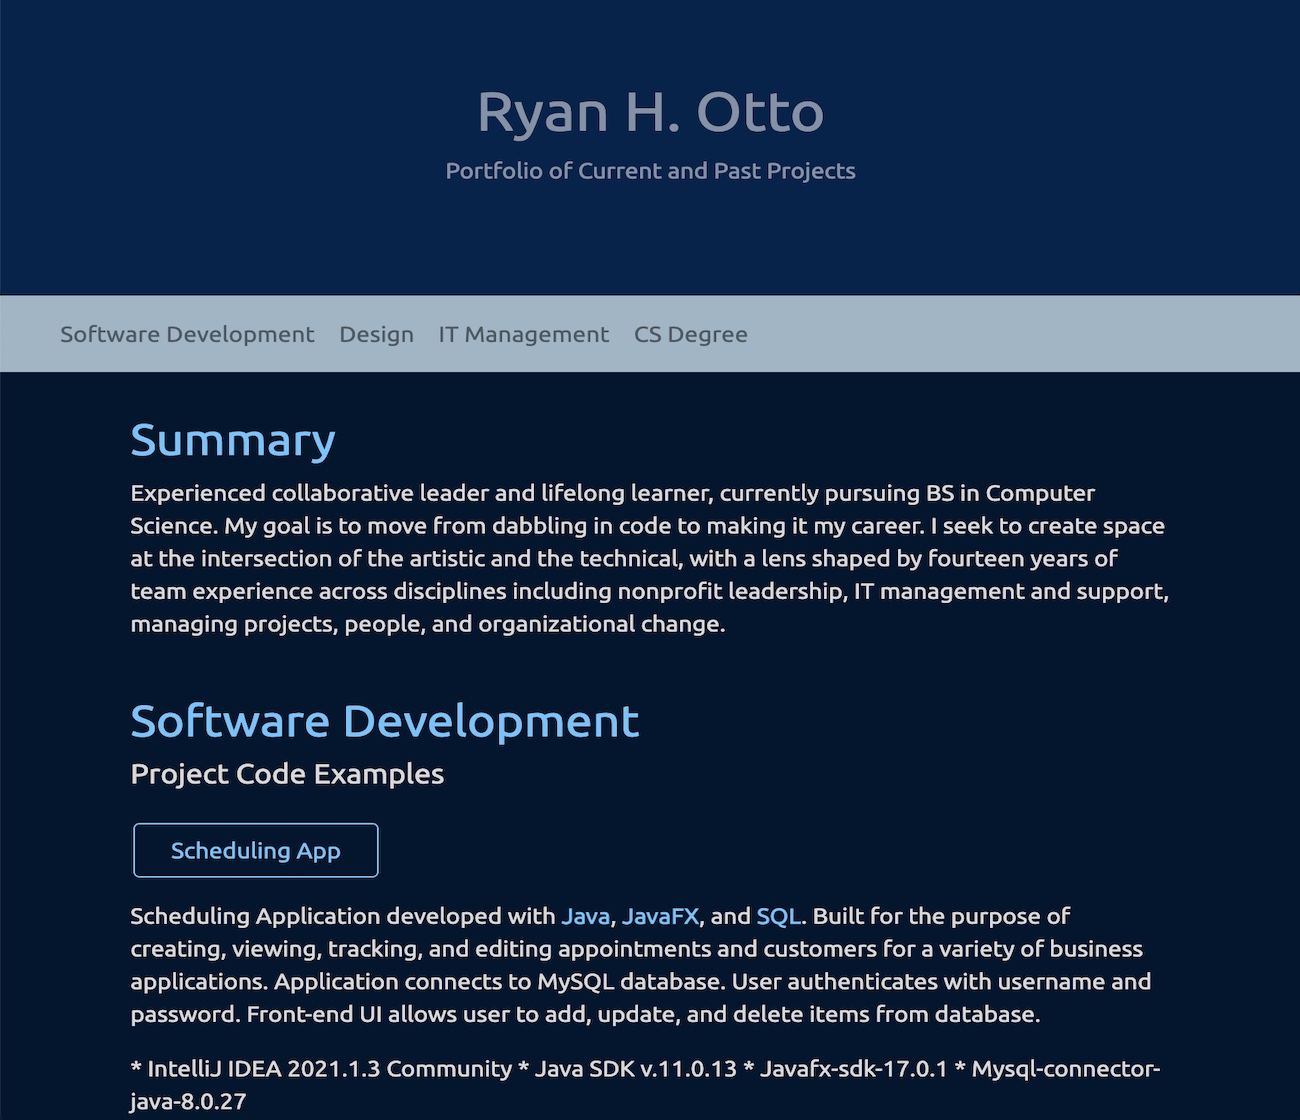
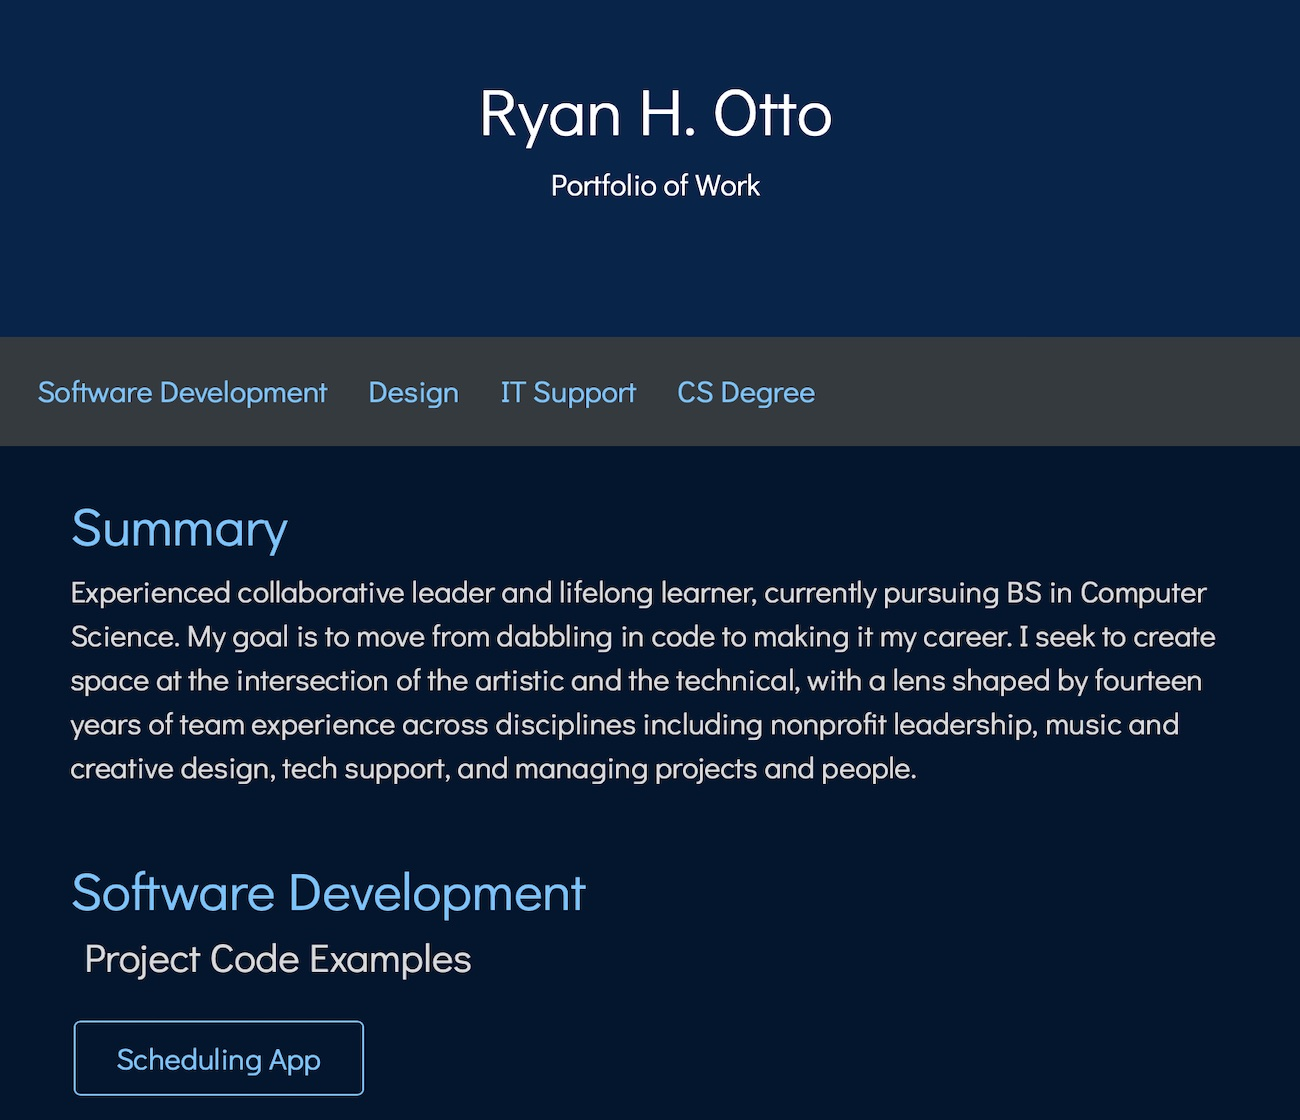
Style revamp

Changed region(s): [[0.0, 0.25, 1.0, 0.7188], [0.0615, 0.75, 0.8923, 1.0], [0.3385, 0.0625, 0.6462, 0.1875]]

diff --git a/index.html b/index.html
@@ -5,118 +5,68 @@
   <meta charset="utf-8">
   <meta name="viewport" content="width=device-width, initial-scale=1">
   <link rel="stylesheet" href="https://cdn.jsdelivr.net/npm/bootstrap@4.6.1/dist/css/bootstrap.min.css">
+  <link rel="stylesheet" href="styles.css">
   <link rel="stylesheet" href="https://fonts.googleapis.com/css2?family=Material+Symbols+Outlined:opsz,wght,FILL,GRAD@48,400,0,0" />
   <script src="https://cdn.jsdelivr.net/npm/jquery@3.6.0/dist/jquery.slim.min.js"></script>
   <script src="https://cdn.jsdelivr.net/npm/popper.js@1.16.1/dist/umd/popper.min.js"></script>
   <script src="https://cdn.jsdelivr.net/npm/bootstrap@4.6.1/dist/js/bootstrap.bundle.min.js"></script>
-  <link rel="stylesheet" href="https://fonts.googleapis.com/css?family=Ubuntu">
-  <style>
-
-  body {
-    font-family: "Ubuntu", sans-serif;
-    background-color: #00162F;
-    color: #D9D9DA;
-  }
-
-  h2 {
-    color: #64C4FF;
-  }
-  a {
-    color: #64C4FF;
-    text-decoration: none;
-  }
-
-  a:hover {
-    text-decoration: none;
-  }
-
-  .button {
-    background-color: #00162F;
-    color: #64C4FF;
-    padding: 10px 24px;
-    text-align: center;
-    text-decoration: none;
-    border: 1px solid #64C4FF;
-    border-radius: 4px;
-    font-size: 1em;
-    margin: 3px 2px;
-    transition-duration: 0.4s;
-    cursor: pointer;
-  }
-
-  .button:hover {
-    background-color: #64C4FF;
-    text-decoration: none;
-    color: white;
-  }
-
-  .fakeimg {
-    height: 200px;
-    background: #aaa;
-  }
-  .squareimg {
-    height: 300px;
-    width: 300px;
-
-  }
-
-
-  .titlecolor {
-    background-color: #00234C;
-  }
-
-  .navcolor {
-    background-color: #9CB6C6;
-  }
-
-  .popcolor {
-    color: #64C4FF;
-  }
-
-  </style>
+  <link rel="stylesheet" href="https://fonts.googleapis.com/css2?family=Didact+Gothic">
 </head>
 
 <body>
 
-<div class="jumbotron text-center titlecolor text-white-50" style="margin-bottom:0">
+<header class="jumbotron text-center titlecolor" style="margin-bottom:0">
   <h1>Ryan H. Otto</h1>
-  <p>Portfolio of Current and Past Projects</p>
-</div>
+  <p>Portfolio of Work</p>
+</header>
 
-<nav class="navbar navbar-expand-sm navcolor navbar-light">
-  <a class="navbar-brand" href="#"></a>
+<nav class="navbar navbar-expand-sm sticky-top bg-dark">
+  <!-- <a class="navbar-brand" href="#"></a> -->
   <button class="navbar-toggler" type="button" data-toggle="collapse" data-target="#collapsibleNavbar">
     <span class="navbar-toggler-icon"></span>
   </button>
   <div class="collapse navbar-collapse" id="collapsibleNavbar">
     <ul class="navbar-nav">
-      <li class="nav-item">
+      <li class="nav-item text-body p-1">
         <a class="nav-link" href="#SD" aria-label="Jump to Software Development Examples">Software Development</a>
       </li>
-      <li class="nav-item">
+      <li class="nav-item p-1">
         <a class="nav-link" href="#WD" aria-label="Jump to Design Examples">Design</a>
       </li>
+<<<<<<< Updated upstream
       <li class="nav-item">
         <a class="nav-link" href="#IT" aria-label="Jump to IT Management Experience">IT Management</a>
+=======
+      <li class="nav-item p-1">
+        <a class="nav-link" href="#IT" aria-label="Jump to IT Support Experience">IT Support</a>
+>>>>>>> Stashed changes
       </li>
-      <li class="nav-item">
+      <li class="nav-item p-1">
         <a class="nav-link" href="#CS" aria-label="Jump to Computer Science Degree Progress">CS Degree</a>
       </li>
     </ul>
   </div>
 </nav>
 
-<div class="container-sm" style="margin-top:30px">
+<main class="container-md" style="margin-top:30px">
+  <section>
     <h2>Summary</h2>
     <p>Experienced collaborative leader and lifelong learner, currently pursuing BS in Computer Science.
       My goal is to move from dabbling in code to making it my career.
     I seek to create space at the intersection of the artistic and the technical, with a lens shaped by
+<<<<<<< Updated upstream
     fourteen years of team experience across disciplines including nonprofit leadership, IT management and support,
     managing projects, people, and organizational change.</p>
+=======
+    fourteen years of team experience across disciplines including nonprofit leadership, music and creative design, tech support, and
+    managing projects and people.</p>
+>>>>>>> Stashed changes
     <br>
+  </section>
 
+  <section>
       <h2 id="SD">Software Development</h2>
-      <h5>Project Code Examples</h5>
+      <h4 class="ml-2">Project Code Examples</h4>
       <br>
       <a href="https://github.com/ottobrew/SchedulingApp" class="button" role="button" target="_blank" aria-label="Link to SchedulingApp code on GitHub">Scheduling App</a>
       <br>
@@ -124,7 +74,7 @@
       <p>Scheduling Application developed with <b class="popcolor">Java</b>, <b class="popcolor">JavaFX</b>, and <b class="popcolor">SQL</b>.  Built for the purpose of creating, viewing, tracking,
         and editing appointments and customers for a variety of business applications. Application connects to MySQL database. User authenticates with username and password. Front-end UI allows user to add,
         update, and delete items from database. </p>
-      <p>* IntelliJ IDEA 2021.1.3 Community  *  Java SDK v.11.0.13  *  Javafx-sdk-17.0.1  *  Mysql-connector-java-8.0.27</p>
+      <p class="ml-2">* IntelliJ IDEA 2021.1.3 Community  *  Java SDK v.11.0.13  *  Javafx-sdk-17.0.1  *  Mysql-connector-java-8.0.27</p>
 
       <p>Synopsis: To run the program, begin by launching the app.  Login with username (test) and password (test).
       Once login is validated, you will receive a notification of any upcoming appointments.
@@ -142,37 +92,44 @@
       <br>
       <br>
       <p>Inventory Management System application.  WGU Software I project developed with <b class="popcolor">Java</b> and <b class="popcolor">JavaFX</b>.</p>
-      <br>
+      <!-- <br>
       <br>
       <p><button type="button" class="button" role="button" aria-label="Future Link to Spring and Java Project">REST API with Spring and Java</button></p>
-      <p>Current Learning and Work in Progress:  Creating REST API with <b class="popcolor">Spring</b> framework for <b class="popcolor">Java</b> web application.</p>
+      <p>Current Learning and Work in Progress:  Creating REST API with <b class="popcolor">Spring</b> framework for <b class="popcolor">Java</b> web application.</p> -->
+    </section>
+
       <br>
       <br>
+    <section>
       <h2 id="WD">Web Design</h2>
-      <h5>Design Examples</h5>
+      <h4 class="ml-2">Design Examples</h4>
 
-      <div class="d-inline-flex align-content-around">
-        <div class="p-3 ">
+      <article class="d-flex align-content-around images">
+        <figure class="p-3">
           <img src="images/PortfolioSite.jpg" class="img-fluid rounded" alt="Ryan Otto Portfolio website">
-          <div>This Portfolio Website</div>
-          <br>
-          <p>Original Design. Built with HTML, CSS, and Bootstrap 4.</p>
-          <p>Hosted on AWS Amplify</p>
-        </div>
-        <div class="p-3 ">
+          <figcaption><p><span class="popcolor">This Portfolio Website</span><br>
+          Original design, built with HTML, CSS, and Bootstrap 4. Hosted on AWS Amplify.</p></figcaption>
+        </figure>
+        <figure class="p-3">
           <a href="https://www.theopencirclesantafe.org"><img src="images/theopencircle2.jpg" class="img-fluid rounded" alt="The Open Circle Santa Fe website">
-          <div>The Open Circle, Santa Fe</div></a>
-          <p>Consultant, Designer, and Site Layout.</p> <p>Site Management with Squarespace Platform</p>
-        </div>
-        <div class="p-3">
+          <figcaption>Open Circle, Santa Fe</a><br>
+          <p>Consultant, Designer, and Site Layout<br>
+            Content Management with Squarespace</p>
+          </figcaption> 
+        </figure>
+        <figure class="p-3">
           <a href="https://www.runsiouxfalls.org"><img src="images/runsiouxfalls2.jpg" class="img-fluid rounded"  alt="Sioux Falls Run Club website">
-          <div>Sioux Falls Run Club</div></a>
-          <p>Consultant, Designer, and Site Layout.</p> <p>Site Management with Squarespace Platform</p>
-        </div>
-      </div>
+          <figcaption>Sioux Falls Run Club</a><br>
+          <p>Consultant, Designer, and Site Layout<br>
+            Content Management with Squarespace</p>
+          </figcaption>
+        </figure>
+      </article>
+    </section>
       <br>
       <br>
 
+<<<<<<< Updated upstream
       <div>
       <h2 id="IT">IT Management</h2>
       <h5>Technology Systems Specialist <small> at Sanford Health, Sioux Falls, South Dakota</h5>
@@ -190,9 +147,31 @@
       <br>
       </div>
 
+=======
+    <section>
+      <h2 id="IT">IT Support</h2>
+      <h5>Technology Systems Specialist <small> at Sanford Health, Sioux Falls, South Dakota (Dec 2021-Present)</small></h5>
+      <h6 class="ml-2">Current Full-Time Role:</h6>
+      <article class="ml-3">
+        <p> • Prioritize & provide timely, efficient, & helpful responses to technology requests and incidents <br>
+         • Listen well and show empathy to users while problem-solving presented issues <br>
+         • Troubleshoot and bring to resolution software & hardware issues on Windows & Mac systems<br>
+         • Develop relationships with campus employees to understand successes, styles, and challenges <br>
+         • Prepare and configure computer and peripheral devices for new and current employees <br>
+         • Support applications and educate remote and onsite users, beginning at onboarding <br>
+         • Collaborate with other team members and escalate issues to appropriate departments <br>
+         • Quickly learn new software, technical skills, and approaches to solve problems <br>
+         • Deploy and manage iOS devices with MDM <br>
+         • Member of hardware standards team </p>
+      </article>
+    </section>
+    <br>
+>>>>>>> Stashed changes
 
+    <section>
       <h2 id="CS">B.S. in Computer Science</h2>
-      <h5>Western Governor's University <small> (Anticipated graduation: April 2023)</h5>
+      <h5>Western Governor's University <small>(Anticipated graduation: April 2023)</small></h5>
+      <br>
       <h6 class="ml-3">Completed Coursework</h6>
 
       <div class="row ml-4">
@@ -237,7 +216,7 @@
         <div class="col">
           <p><span class="material-symbols-outlined popcolor">
             done
-          </span>Web Development (HTML & CSS)</p>
+          </span>HTML & CSS</p>
         </div>
       </div>
 
@@ -255,7 +234,7 @@
         <div class="col">
           <p><span class="material-symbols-outlined popcolor">
             done
-          </span>Operating Systems for Programmers</p>
+          </span>Operating Systems</p>
         </div>
         <div class="col">
           <p><span class="material-symbols-outlined popcolor">
@@ -263,28 +242,25 @@
           </span>Calculus I</p>
         </div>
       </div>
+    </section>
+      <br>  
 
-      <br>
-
+    <section>
       <h5>Certifications</h5>
       <div class="col ml-4">
         <p><span class="material-symbols-outlined popcolor mr-2">
         done_outline</span>CompTIA Project+ (anticipated test date July 31)</p>
         <p><span class="material-symbols-outlined popcolor mr-2">
-        verified
-        </span>ITIL 4 Foundations</p>
-        <p><span class="material-symbols-outlined popcolor mr-2">
         verified</span>Fundamentals in Design Thinking Certificate from IDEO (2019)</p>
         <p><span class="material-symbols-outlined popcolor mr-2">
+          verified
+        </span>ITIL 4 Foundations</p>
+        <p><span class="material-symbols-outlined popcolor mr-2">
         verified</span>Conflict Mediation Skills Training Institute, Lombard Mennonite Peace Center (2016)</p>
-
     </div>
-    <br>
-
-</div>
-
-
-
+  </section>
+</main>
+<br>
 <footer class="footer mt-auto py-3 bgcolor">
   <div class="container">
     <p class="text-center">Ryan Otto.  Created 2022.</p>

diff --git a/styles.css b/styles.css
@@ -1,0 +1,74 @@
+body {
+    font-family: "Didact Gothic", sans-serif;
+    font-size: 1em;
+    background-color: #00162F;
+    color: #D9D9DA;
+
+  }
+
+  h2, h6 {
+    color: #64C4FF;
+  }
+
+
+  a {
+    color: #64C4FF;
+    text-decoration: none;
+  }
+
+  a:hover {
+    text-decoration: none;
+  }
+
+  .button {
+    background-color: #00162F;
+    color: #64C4FF;
+    padding: 10px 24px;
+    text-align: center;
+    text-decoration: none;
+    border: 1px solid #64C4FF;
+    border-radius: 4px;
+    font-size: 1em;
+    margin: 3px 2px;
+    transition-duration: 0.4s;
+    cursor: pointer;
+  }
+
+  .button:hover {
+    background-color: #64C4FF;
+    text-decoration: none;
+    color: white;
+  }
+
+  .images {
+    flex-direction: row;
+  }
+
+  .material-symbols-outlined:hover {
+    text-decoration: none;
+    color: white;
+    transition-duration: 0.4s;
+    cursor: default;
+  }
+
+  .titlecolor {
+    background-color: #00234C;
+    color: white;
+  }
+
+  .navcolor {
+    color: #00162F;
+    background-color: white;
+    /* background-color: #9CB6C6; */
+
+  }
+
+  .popcolor {
+    color: #64C4FF;
+  }
+
+  @media screen and (max-width: 800px) {
+    .images {
+      flex-direction: column;
+    }
+  }
